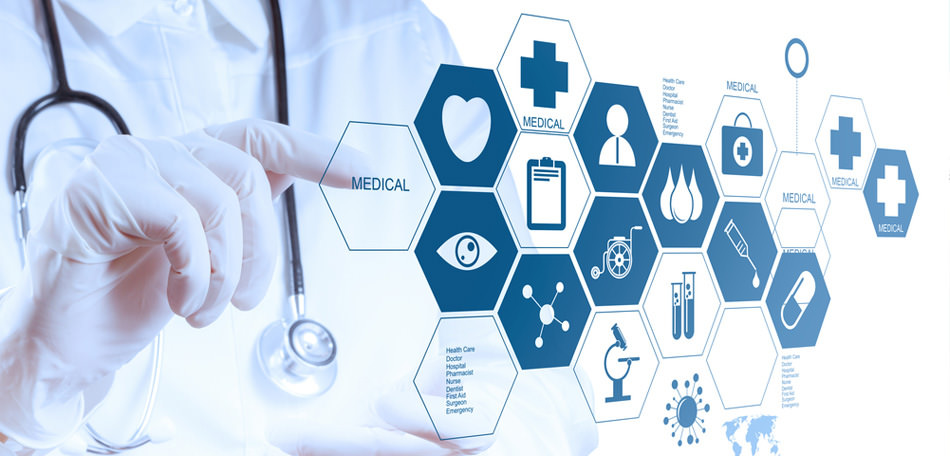
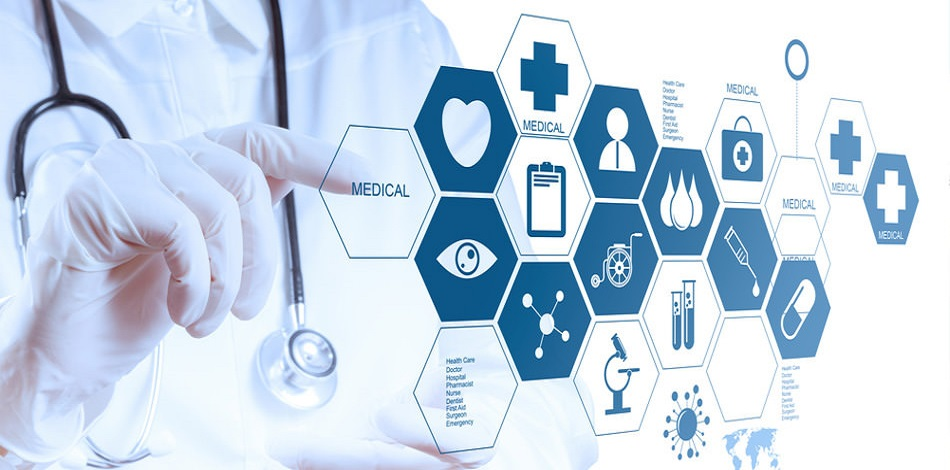
Aprimoramento na responsividade da tela inicial

diff --git a/src/Facilidata.FaciliHosp.Presentation.Site/wwwroot/css/homestyle.css b/src/Facilidata.FaciliHosp.Presentation.Site/wwwroot/css/homestyle.css
@@ -1,21 +1,23 @@
+.txt {
+    margin-top: -30%;
+    text-shadow: 2px 2px 4px #000000;
+}
+
 .content {
-    position: absolute; /*it can be fixed too*/
+    position: absolute;
     left: 0;
     right: 0;
     top: 0;
     bottom: 0;
     margin: auto;
-    /*this to solve "the content will not be cut when the window is smaller than the content": */
-    max-width: 100%;
-    max-height: 100%;
+
 }
-.txt {
-    margin-top: -450px;
-    text-shadow: 2px 2px 4px #000000;
-}
-.slider-navigation-previous{
+
+.slider-navigation-previous {
     visibility: hidden;
 }
+
 .slider-navigation-next {
     visibility: hidden;
 }
+
